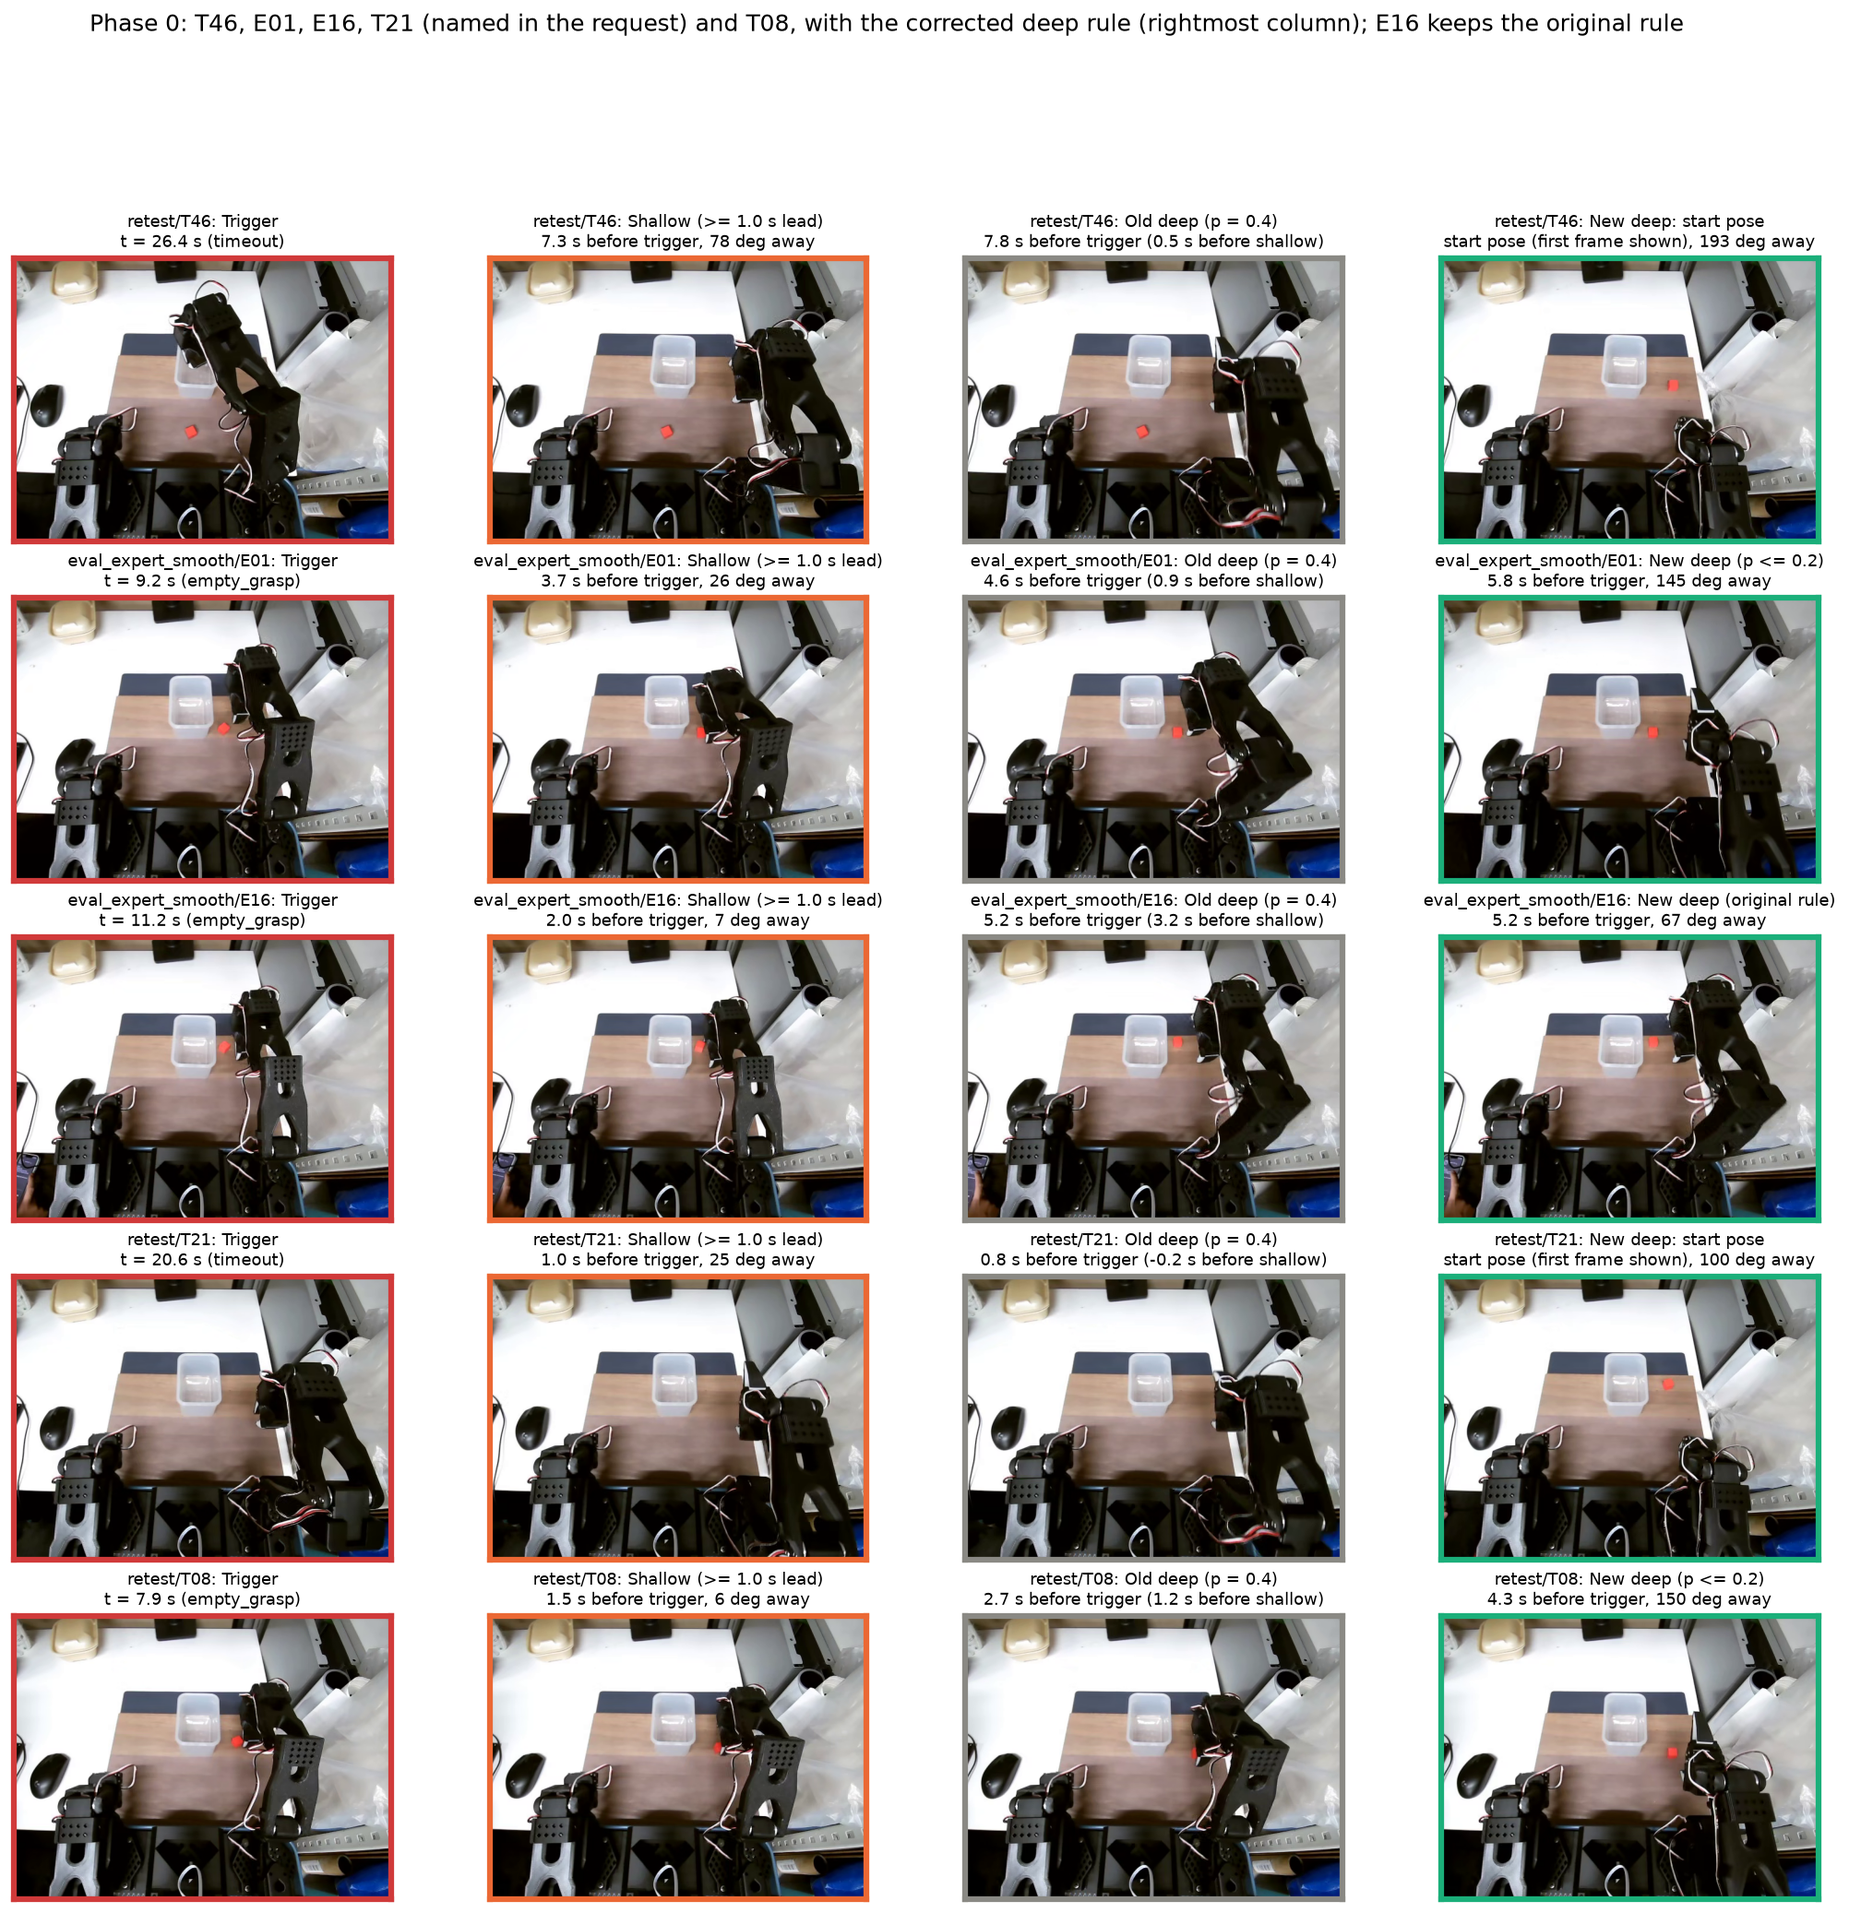
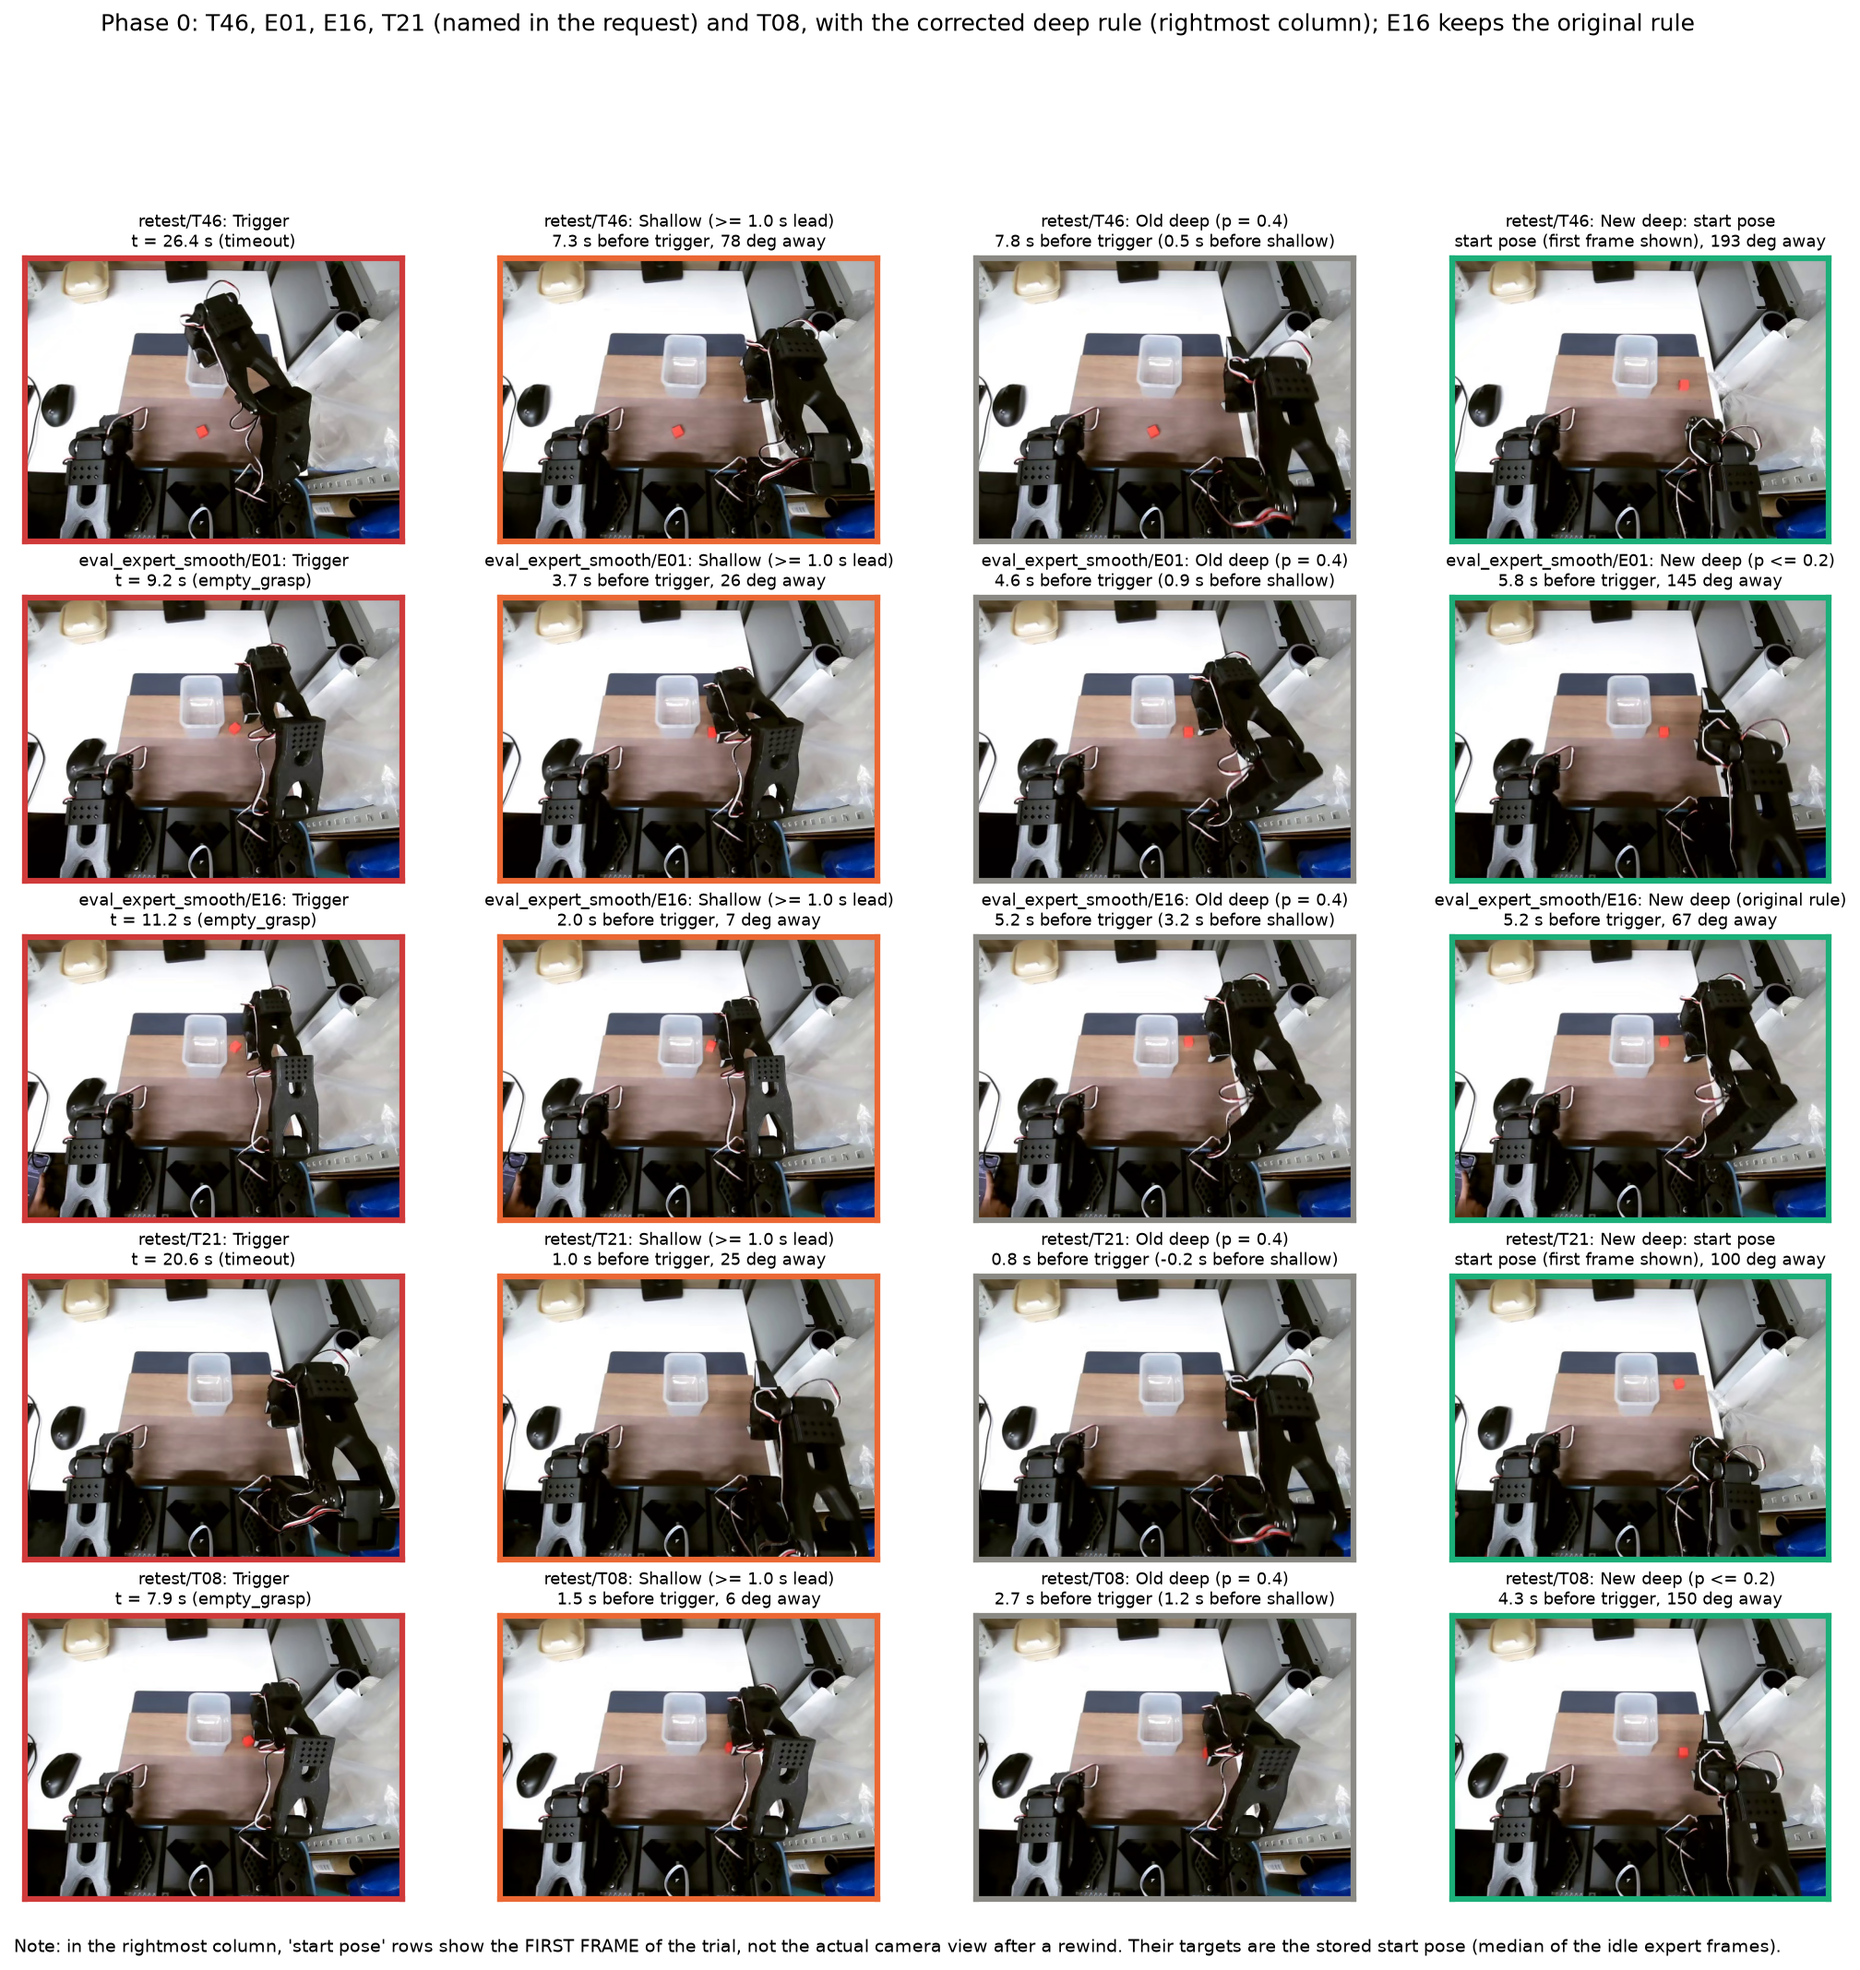
Rewind: resampled replay path (2 deg merge), duration estimates, figure caption for the start-pose column

diff --git a/rewind_offline/phase0_deep_fix.py b/rewind_offline/phase0_deep_fix.py
@@ -62,6 +62,38 @@ def main():
     P("joint distance trigger->deep target (deg): median %.1f, min %.1f, max %.1f; shallow: median %.1f" % (R.deep_joint_deg.median(), R.deep_joint_deg.min(), R.deep_joint_deg.max(), R.shallow_joint_deg.median()))
     P("literal reading of level 2 (without the gap condition) would pick a state for: %d of the %d trials that left level 1" % (R[R.level != 'original'].literal_level2_frame.notna().sum(), (R.level != 'original').sum()))
     P("levels where the level-2 candidate also fails the gap: " + str(R[(R.level == 'start_pose')].trial.tolist()))
+    # ---- replay points and estimated duration, before / after resampling (max 1.5 deg per joint per step)
+    MAXSTEP = params["rewind_max_step_deg_default"]; rows2 = []
+    for t in trials:
+        if t["success"]: continue
+        trig = t["trig"]; lo = max(0, trig - int(S2.BUF_S * FPS)); buf = t["states"][lo: trig + 1]; ti = len(buf) - 1
+        sh = RT.select_rewind_target_lead(buf, ti, int(params["shallow_lead_s"] * FPS), index, params)
+        dp = RT.select_rewind_target_deep(buf, ti, index, params)
+        for name, idx in (("shallow", sh.idx), ("deep", dp.idx)):
+            if name == "deep" and dp.level == "start_pose": idx = None
+            w0 = RT.plan_rewind_path(buf, ti, idx, params, resample=False); w1 = RT.plan_rewind_path(buf, ti, idx, params, resample=True)
+            s0, s1 = RT.estimate_rewind_steps(w0, MAXSTEP), RT.estimate_rewind_steps(w1, MAXSTEP)
+            L = lambda w: float(np.linalg.norm(np.diff(w, axis=0), axis=1).sum())
+            rows2.append(dict(dataset=t["dataset"], trial=t["trial"], setting=name, level=("shallow" if name == "shallow" else dp.level),
+                              points_before=len(w0), points_after=len(w1), steps_before=s0, steps_after=s1, est_s_before=s0 / FPS, est_s_after=s1 / FPS,
+                              path_deg_before=L(w0), path_deg_after=L(w1), frames_in_segment=len(w0)))
+    R2 = pd.DataFrame(rows2); R2.to_csv(OUT / "phase0_replay_points.csv", index=False, float_format="%.3f")
+    P("\nREPLAY: waypoints and estimated duration at %.1f deg/joint/step, min step %.1f deg (before = every frame of the segment, after = resampled)" % (MAXSTEP, params["rewind_resample_min_step_deg"]))
+    for name in ("shallow", "deep"):
+        d = R2[R2.setting == name]
+        P(f"  {name}: waypoints median {d.points_before.median():.0f} -> {d.points_after.median():.0f} (total {d.points_before.sum()} -> {d.points_after.sum()}); "
+          f"estimated duration median {d.est_s_before.median():.2f} s -> {d.est_s_after.median():.2f} s, max {d.est_s_before.max():.1f} s -> {d.est_s_after.max():.1f} s")
+    P("  per level (deep): " + str(R2[R2.setting == "deep"].groupby("level")[["points_before", "points_after", "est_s_before", "est_s_after"]].median().round(2).to_dict("index")))
+    P("  T21 / T46 / E01 / T08 (deep):\n" + R2[(R2.setting == "deep") & R2.trial.isin(["T21", "T46", "E01", "T08"])][["trial", "level", "frames_in_segment", "points_before", "points_after", "est_s_before", "est_s_after", "path_deg_before", "path_deg_after"]].round(2).to_string(index=False))
+    # duration of the start-pose replays at other speed limits, and direct interpolation for comparison
+    for t in trials:
+        if t["success"] or t["trial"] not in ("T21", "T46"): continue
+        trig = t["trig"]; lo = max(0, trig - int(S2.BUF_S * FPS)); buf = t["states"][lo: trig + 1]; ti = len(buf) - 1
+        w = RT.plan_rewind_path(buf, ti, None, params)
+        direct = np.vstack([buf[ti, :5], np.asarray(params["start_pose"])])
+        P(f"  {t['trial']} start-pose replay (resampled, {len(w)} waypoints): " + ", ".join(f"{m:g} deg/step -> {RT.estimate_rewind_steps(w, m) / FPS:.1f} s" for m in (1.5, 2.0, 3.0))
+          + f"; direct interpolation trigger->start pose: " + ", ".join(f"{m:g} -> {RT.estimate_rewind_steps(direct, m) / FPS:.1f} s" for m in (1.5, 2.0, 3.0)))
+    P("  all trials, segments where the 1.5 deg limit (not the recorded speed) sets the duration: before %d of %d deep+shallow" % ((R2.steps_before > R2.frames_in_segment).sum(), len(R2)))
     # ---- figure: four trials
     import matplotlib; matplotlib.use("Agg"); import matplotlib.pyplot as plt
     by = {(t["dataset"], t["trial"]): t for t in trials}
@@ -84,6 +116,8 @@ def main():
             for sp in ax.spines.values(): sp.set_visible(True); sp.set_color(col); sp.set_linewidth(3)
             ax.set_title(f"{r.dataset}/{r.trial}: {nm}\n{sub}", fontsize=8.5)
     fig.suptitle("Phase 0: T46, E01, E16, T21 (named in the request) and T08, with the corrected deep rule (rightmost column); E16 keeps the original rule", y=0.995)
+    fig.text(0.5, 0.085, "Note: in the rightmost column, 'start pose' rows show the FIRST FRAME of the trial, not the actual camera view after a rewind. "
+             "Their targets are the stored start pose (median of the idle expert frames).", ha="center", fontsize=9)
     fig.savefig(OUT / "phase0_figB_four_trials.png", dpi=150, bbox_inches="tight"); plt.close(fig)
 
 

diff --git a/rewind_target.py b/rewind_target.py
@@ -196,3 +196,50 @@ def select_rewind_target_deep(buffer_states, trigger_idx, index: RewindIndex, pa
         return DeepResult("progress_le_0.2", i, b[i, :N_ARM].copy(), float(dist[i]), float(index.progress[nn[i]]), shallow_idx, original_idx,
                           None if shallow_idx is None else shallow_idx - i)
     return DeepResult("start_pose", None, np.asarray(params["start_pose"], float), None, None, shallow_idx, original_idx, None)
+
+
+# ------------------------------------------------------------------------------------------------ rewind path planning
+def resample_path(points, min_step_deg):
+    """
+    Indices of the points to keep when travelling along `points` (N, D) in the given order: the first point, then every point whose
+    joint-space (Euclidean) distance from the last kept point is >= min_step_deg, and always the final point. Standing still and small
+    back-and-forth adjustments (which return close to the last kept point) are skipped.
+    """
+    pts = np.asarray(points, float)
+    n = len(pts)
+    if n == 0:
+        return []
+    keep, last = [0], pts[0]
+    for i in range(1, n - 1):
+        if np.linalg.norm(pts[i] - last) >= min_step_deg:
+            keep.append(i); last = pts[i]
+    if n > 1:
+        keep.append(n - 1)
+    return keep
+
+
+def plan_rewind_path(buffer_states, trigger_idx, target_idx, params: dict, target_pose=None, resample=True):
+    """
+    Waypoints (K, 5) for the rewind: start at the trigger state, travel back along the recorded measured trajectory to the target.
+    target_idx: index in buffer_states; or None for the start pose, in which case the whole cache is replayed backwards and the
+    final waypoint is target_pose (params["start_pose"] when not given), reached by interpolation (the controller interpolates between waypoints).
+    resample=True merges points closer than params["rewind_resample_min_step_deg"] (joint-space distance); False keeps every frame.
+    """
+    b = np.asarray(buffer_states, float)[:, :N_ARM]
+    lo = 0 if target_idx is None else int(target_idx)
+    seg = b[lo: trigger_idx + 1][::-1]
+    if resample:
+        seg = seg[resample_path(seg, params["rewind_resample_min_step_deg"])]
+    if target_idx is None:
+        pose = np.asarray(params["start_pose"] if target_pose is None else target_pose, float)
+        seg = np.vstack([seg, pose[None]])
+    return seg
+
+
+def estimate_rewind_steps(waypoints, max_step_deg):
+    """Control steps needed to pass the waypoints with at most max_step_deg change per joint per step (>= 1 step per segment)."""
+    w = np.asarray(waypoints, float)
+    if len(w) < 2:
+        return 0
+    d = np.abs(np.diff(w, axis=0)).max(axis=1)
+    return int(np.maximum(1, np.ceil(d / max_step_deg)).sum())

diff --git a/rewind_offline/step1_build_index.py b/rewind_offline/step1_build_index.py
@@ -161,6 +161,7 @@ def main():
                   gripper_open_threshold=GRIPPER_OPEN_THRESHOLD, gripper_open_threshold_grasp_detection=GRASP_DETECTION_OPEN,
                   p_shallow=P_SHALLOW, p_deep=P_DEEP, shallow_lead_s=1.0,
                   deep_min_gap_s=DEEP_MIN_GAP_S, deep_fallback_progress=DEEP_FALLBACK_PROGRESS,
+                  rewind_resample_min_step_deg=2.0, rewind_max_step_deg_default=1.5,
                   start_pose=[float(x) for x in np.median(M[M.phase == "pre_motion"][[f"q{i}" for i in range(5)]].to_numpy(float), axis=0)],
                   start_pose_definition="per-joint median of the 5 arm joints over the idle frames before the arm-motion onset, all 50 expert demos",
                   units_note="not read from the recording configuration; inferred: LeRobot SOFollowerConfig.use_degrees default True "

diff --git a/README.md b/README.md
@@ -101,3 +101,8 @@ progress <= p; `select_rewind_target_lead(...)` is the time-based shallow varian
 `select_rewind_target_deep` in `rewind_target.py`: original deep target (progress <= 0.4); if it is less than 2.0 s earlier than the time-rule shallow target,
 the last state with progress <= 0.2 that is at least 2.0 s earlier; otherwise the start pose (median of the idle expert frames before the arm moves). The
 result records which level was used. `python rewind_offline/phase0_deep_fix.py` re-runs the 29 failed trajectories (`phase0_deep_fix.csv`, `phase0_summary.txt`, `phase0_figB_four_trials.png`).
+
+Replay path (phase 0 addendum): `plan_rewind_path` replays the recorded measured trajectory backwards and merges waypoints closer than
+`rewind_resample_min_step_deg` (2.0 deg, joint-space distance) so that standing still and small back-and-forth adjustments are skipped;
+`estimate_rewind_steps` gives the number of control steps at a per-joint limit (default 1.5 deg/step). Start-pose targets (`level = "start_pose"`)
+are not discarded: the level is stored in the per-episode metadata so that results can be reported with and without them.
